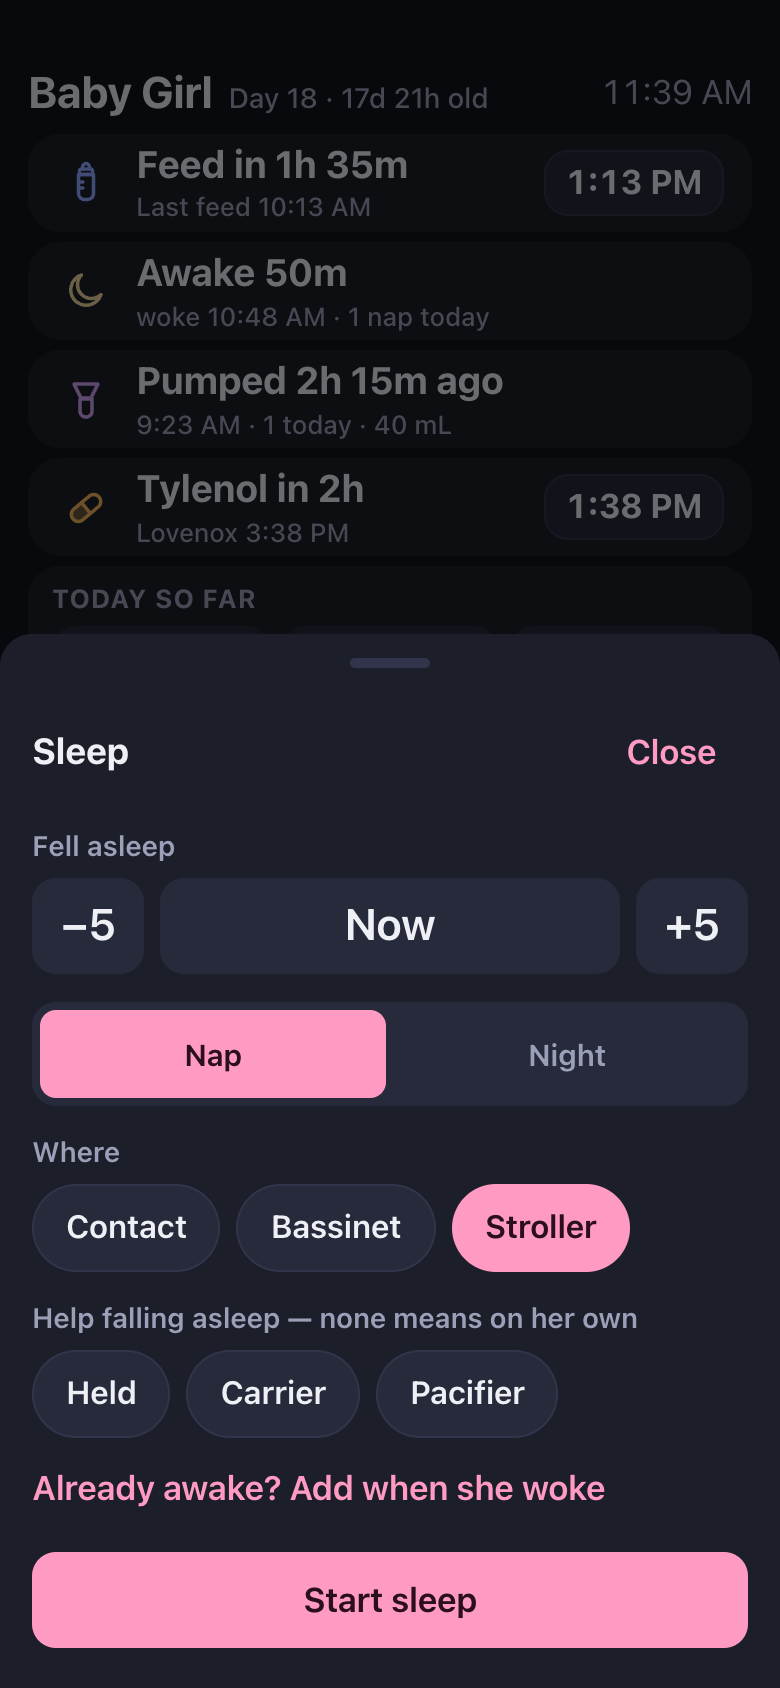
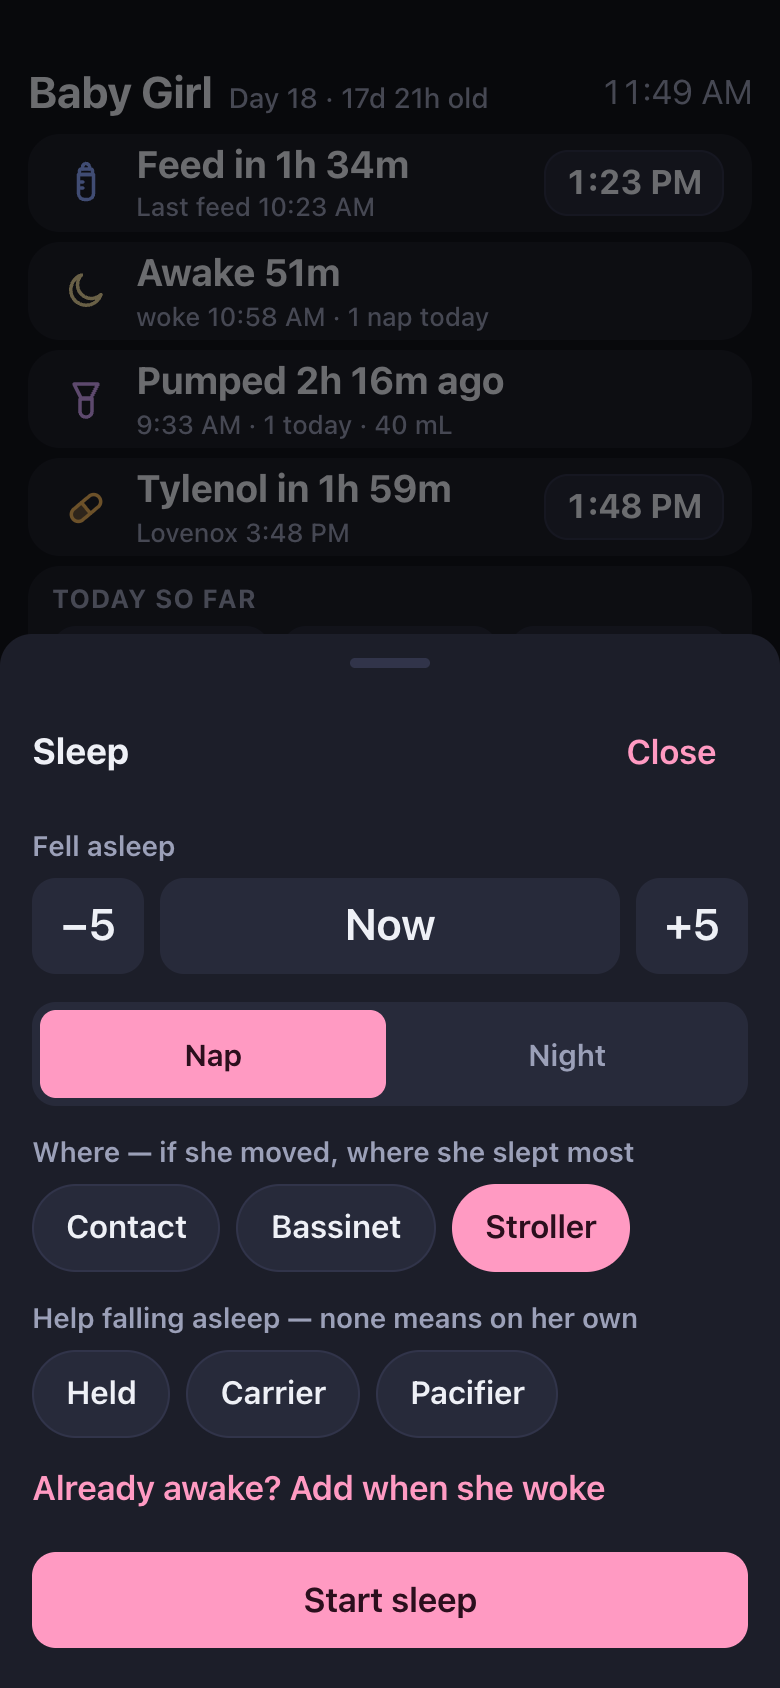
Sleep place is one choice (where she slept most); no transfer tracking; tapping the pre-picked place confirms it

diff --git a/src/components/editors.tsx b/src/components/editors.tsx
@@ -4,10 +4,9 @@ import { useUI, type EditorState } from '../ui';
 import {
   FEED_KINDS, STOOL_COLORS, STOOL_AMOUNTS, label,
   type Feed, type Diaper, type Pump, type MomMed, type Entry,
-  type FeedKind, type Side, type Latch, type StoolColor, type StoolAmount, type Med, type Sleep, type SleepHow, SLEEP_HOW, SLEEP_PLACES, type SleepPlace, type SleepStop,
+  type FeedKind, type Side, type Latch, type StoolColor, type StoolAmount, type Med, type Sleep, type SleepHow, SLEEP_HOW, SLEEP_PLACES, type SleepPlace,
 } from '../types';
 import { isNightSleepAt, DEFAULT_NIGHT_SLEEP, defaultPlace } from '../lib/sleep';
-import { fmtTime } from '../lib/time';
 import { announceAwake } from './MarkedAwake';
 import { fmtDur } from '../lib/time';
 import { Sheet, Chips, Seg, Field, NumberPick, TimeField, NotesField } from './common';
@@ -169,58 +168,31 @@ export function MedEditor({ entry, preset }: { entry?: MomMed; preset?: { med?: 
 
 export function SleepEditor({ entry }: { entry?: Sleep }) {
   const b = useEditorBase(entry);
-  const { settings, entries, update } = useStore();
-  const { closeEditor, toast } = useUI();
+  const { settings, entries } = useStore();
   const window = settings.night_sleep ?? DEFAULT_NIGHT_SLEEP;
   const [nightTouched, setNightTouched] = useState(!!entry);
   const [nightPick, setNight] = useState<boolean>(entry?.night ?? isNightSleepAt(b.at, window));
   const night = nightTouched ? nightPick : isNightSleepAt(b.at, window);
   const [how, setHow] = useState<SleepHow[]>(entry?.how ?? []);
   const [endAt, setEndAt] = useState<number | null>(entry?.end_at ?? null);
-  // Where she slept: a timeline. New sleeps start where the last nap (or night) started.
-  const [stops, setStops] = useState<SleepStop[]>(() => entry?.places ?? []);
+  // Where she slept: one place (where she slept most). New sleeps start where the last nap (or night) did.
+  const [placePick, setPlacePick] = useState<SleepPlace | null>(() => entry?.places?.length ? entry.places[entry.places.length - 1].place : null);
   const [placeTouched, setPlaceTouched] = useState(!!entry);
-  const suggested = placeTouched ? null : defaultPlace(entries, night);
-  const startPlace: SleepPlace | null = stops[0]?.place ?? suggested;
-  const pickStart = (p: SleepPlace) => { setPlaceTouched(true); setStops((cur) => (cur[0]?.place === p && !suggested ? cur.slice(1) : [{ at: b.at, place: p }, ...cur.slice(1)])); };
-  const placesOut = (): SleepStop[] | undefined => {
-    const list = startPlace ? [{ at: b.at, place: startPlace }, ...stops.slice(1)] : [];
-    return list.length ? list : undefined;
-  };
-  const asleepNow = !!entry && entry.end_at == null;
-  const moveTo = (p: SleepPlace) => {
-    const at = Date.now();
-    const base = entry!.places?.length ? entry!.places : startPlace ? [{ at: entry!.at, place: startPlace }] : [];
-    void update(entry!.id, { places: [...base, { at, place: p }] } as Partial<Sleep>);
-    closeEditor();
-    toast(`Moved to ${p} at ${fmtTime(at)}`);
-  };
+  const place: SleepPlace | null = placeTouched ? placePick : defaultPlace(entries, night);
+  // Tapping the pre-picked default confirms it; tapping a place you chose yourself again clears it.
+  const pickPlace = (p: SleepPlace) => { setPlacePick(placeTouched && place === p ? null : p); setPlaceTouched(true); };
   const toggleHow = (h: SleepHow) => setHow((cur) => (cur.includes(h) ? cur.filter((x) => x !== h) : [...cur.filter((x) => x !== 'own'), h]));
   const bad = endAt != null && endAt <= b.at;
-  const save = (end = endAt) => b.save({ type: 'sleep', night, how: how.length ? how : undefined, places: placesOut(), end_at: end });
+  const save = (end = endAt) => b.save({ type: 'sleep', night, how: how.length ? how : undefined, places: place ? [{ at: b.at, place }] : undefined, end_at: end });
   return (
     <Sheet title={b.editing ? (entry?.end_at == null ? 'Asleep' : 'Edit sleep') : 'Sleep'} onClose={b.close}>
       <TimeField value={b.at} onChange={b.setAt} label="Fell asleep" />
       <Seg options={[{ value: 'nap', label: 'Nap' }, { value: 'night', label: 'Night' }]} value={night ? 'night' : 'nap'} onChange={(v) => { setNightTouched(true); setNight(v === 'night'); }} />
-      <Field label={stops.length > 1 ? 'Where she fell asleep' : 'Where'}>
+      <Field label="Where — if she moved, where she slept most">
         <div className="chips">
-          {SLEEP_PLACES.map((o) => <button key={o.value} type="button" className={`chip${startPlace === o.value ? ' on' : ''}`} aria-pressed={startPlace === o.value} onClick={() => pickStart(o.value)}>{o.label}</button>)}
+          {SLEEP_PLACES.map((o) => <button key={o.value} type="button" className={`chip${place === o.value ? ' on' : ''}`} aria-pressed={place === o.value} onClick={() => pickPlace(o.value)}>{o.label}</button>)}
         </div>
       </Field>
-      {stops.length > 1 && (
-        <div className="moves">
-          {stops.slice(1).map((m, i) => (
-            <div key={m.at} className="move"><span>Moved to <b>{m.place}</b> at {fmtTime(m.at)}</span><button type="button" className="btn ghost" onClick={() => setStops((cur) => cur.filter((_, k) => k !== i + 1))} aria-label={`Remove the move to ${m.place}`}>Remove</button></div>
-          ))}
-        </div>
-      )}
-      {asleepNow && (
-        <Field label="Moved her?">
-          <div className="chips">
-            {SLEEP_PLACES.filter((o) => o.value !== (entry!.places?.length ? entry!.places[entry!.places.length - 1].place : startPlace)).map((o) => <button key={o.value} type="button" className="chip" onClick={() => moveTo(o.value)}>To {o.label.toLowerCase()} now</button>)}
-          </div>
-        </Field>
-      )}
       <Field label="Help falling asleep — none means on her own">
         <div className="chips">
           {SLEEP_HOW.map((o) => <button key={o.value} type="button" className={`chip${how.includes(o.value) ? ' on' : ''}`} aria-pressed={how.includes(o.value)} onClick={() => toggleHow(o.value)}>{o.label}</button>)}
@@ -232,7 +204,7 @@ export function SleepEditor({ entry }: { entry?: Sleep }) {
           {bad ? <div className="red small">Woke up has to be after she fell asleep.</div> : <div className="muted small">Slept {fmtDur(endAt - b.at)}</div>}
         </>
       ) : b.editing ? (
-        <button type="button" className="btn block" onClick={() => { const at = Date.now(); save(at); if (settings.marked_awake !== false && entry) announceAwake({ id: entry.id, at, sleptMs: at - entry.at, place: stops.length ? stops[stops.length - 1].place : startPlace }); }}>Woke up now</button>
+        <button type="button" className="btn block" onClick={() => { const at = Date.now(); save(at); if (settings.marked_awake !== false && entry) announceAwake({ id: entry.id, at, sleptMs: at - entry.at, place }); }}>Woke up now</button>
       ) : (
         <button type="button" className="btn ghost" style={{ alignSelf: 'flex-start', minHeight: 0, padding: 0 }} onClick={() => setEndAt(Date.now())}>Already awake? Add when she woke</button>
       )}

diff --git a/docs/release-notes/index.html b/docs/release-notes/index.html
@@ -482,7 +482,7 @@
       <div class="body">
         <h2>Marked Awake</h2>
         <ul class="notes">
-          <li><b>Where she slept.</b> Contact, Bassinet or Stroller on the sleep sheet, remembered from the last nap or night so it's usually already right. While she sleeps, open her sleep card and tap "To contact now" (or wherever) when she's moved; the card then reads "bassinet → contact".</li>
+          <li><b>Where she slept.</b> Contact, Bassinet or Stroller on the sleep sheet, remembered from the last nap or night so it's usually already right. Transfers aren't tracked: if she moved, pick where she slept most, or wake her and start a new sleep.</li>
           <li><b>The diary shows it.</b> Bassinet sleep is a solid bar, contact is striped, stroller is an outline, so a week of naps shows the mix at a glance.</li>
           <li><b>Help falling asleep, trimmed.</b> Held, Carrier and Pacifier. Rocked folds into held.</li>
           <li><b>She's Marked Awake.</b> Tap Woke up and a card in the style of the old safety check-in announces it: "Frankie is Marked Awake, and safe from Monty". The second line rotates through a few. It fades on its own, a tap closes it, Undo is inside, and at night it dims. A switch in Settings turns it off; new households start with it off.</li>

diff --git a/docs/guide/index.html b/docs/guide/index.html
@@ -111,7 +111,7 @@
       <div class="tip"><b>Wet is two taps.</b>Diaper, then Wet, saved. Dirty asks for a colour, and the colour tap saves.</div>
       <div class="tip"><b>Made a mistake?</b>Tap an entry to edit. Swipe left to delete. Undo sits at the bottom for ten seconds.</div>
       <div class="tip"><b>Mom's meds count down too.</b>Enter the hours between doses in Settings. The app never suggests an interval or a dose.</div>
-      <div class="tip"><b>Sleep is one button.</b>Tap Sleep when she drifts off: where (contact, bassinet, stroller) and any help (held, carrier, pacifier). Moved her? Tap her sleep card. While she sleeps the button reads Woke up; one tap ends it.</div>
+      <div class="tip"><b>Sleep is one button.</b>Tap Sleep when she drifts off: where (contact, bassinet, stroller) and any help (held, carrier, pacifier). While she sleeps the button reads Woke up; one tap ends it.</div>
       <div class="tip"><b>Longer stretches at night?</b>Settings → Feed timer → Different at night. A feed that starts after night begins counts down the night hours.</div>
       <div class="tip"><b>No signal, no problem.</b>Entries save on the phone and sync when you're back online.</div>
     </div>

diff --git a/src/data/demo.ts b/src/data/demo.ts
@@ -77,11 +77,11 @@ export function demoData(now = Date.now()): { settings: Settings; entries: Entry
   let lastEnd = 0;
   for (const [start, end, night, how] of sleeps.sort((a, b) => a[0] - b[0])) {
     if (end > now - 10 * M) continue;
-    // Nights in the bassinet, now and then moved to contact near the end; naps by time of day.
+    // Nights mostly in the bassinet, now and then contact; naps by time of day.
     const h = new Date(start).getHours();
     const places = night
-      ? (Math.round(start / 3_600_000) % 4 === 0 ? [{ at: start, place: 'bassinet' }, { at: end - 40 * M, place: 'contact' }] : [{ at: start, place: 'bassinet' }])
-      : h < 11 ? [{ at: start, place: 'contact' }] : h < 15 ? [{ at: start, place: 'bassinet' }, { at: start + 50 * M, place: 'contact' }] : [{ at: start, place: 'stroller' }];
+      ? [{ at: start, place: Math.round(start / 3_600_000) % 4 === 0 ? 'contact' : 'bassinet' }]
+      : [{ at: start, place: h < 11 ? 'contact' : h < 15 ? 'bassinet' : 'stroller' }];
     push({ type: 'sleep', end_at: end, night, places, ...(how ? { how } : {}) }, start, night ? 'mom' : 'dad');
     lastEnd = Math.max(lastEnd, end);
   }

diff --git a/src/styles.css b/src/styles.css
@@ -220,10 +220,6 @@ table.compare td { padding: 7px 0; border-top: 1px solid var(--border); text-ali
 table.compare td:first-child { text-align: left; color: var(--muted); }
 table.compare td:nth-child(2) { font-weight: 700; }
 
-.moves { display: flex; flex-direction: column; gap: 4px; margin-top: -4px; }
-.move { display: flex; align-items: center; justify-content: space-between; font-size: 15px; color: var(--muted); }
-.move b { color: var(--text); font-weight: 600; }
-.move .btn { min-height: 0; padding: 4px 0; font-size: 14px; }
 
 /* "Marked Awake": an homage to the old safety check-in card. Its own type and colours, on purpose. */
 .awake-scrim { position: fixed; inset: 0; z-index: 70; display: flex; align-items: center; justify-content: center; padding: 24px; background: rgba(6, 7, 12, .45); }

diff --git a/AGENTS.md b/AGENTS.md
@@ -14,7 +14,7 @@ No accounts. The household id in the URL path (`/h/<24+ char token>`, legacy `#h
 `/demo` is a made-up household held in memory only (`src/data/demo.ts`, dated relative to now in the device's time zone; `DemoStoreProvider` in `src/data/demoStore.tsx` implements the same `Store`). It never touches Firestore or this device's saved household; Settings shows a "Start your own household" card and hides sharing, switching and delete. `store.demo` is true there.
 
 ## Data
-- `households/{hid}/entries/{id}`: one collection, discriminated by `type` (`feed | diaper | pump | mom_med | sleep`). A sleep runs from `at` (fell asleep) to `end_at` (woke up; null while asleep), carries `night` (pre-picked from `settings.night_sleep`, default 19:00–07:00, flippable) and optional `how[]`: help falling asleep (held, `bjorn` = carrier, pacifier), offered on every sleep; none means on her own. Feeding and rocking aren't offered (she always goes down after a feed; rocked counts as held); legacy `feeding`/`own`/`rocking` values still display. Optional `places[]` is a timeline of {at, place} (contact, bassinet, stroller): the first stop is where she fell asleep, later stops are moves, logged from the open sleep's sheet ("Moved her?"). New sleeps default to where the last nap or night started (`defaultPlace`). Sleep math lives in `src/lib/sleep.ts`: daily totals split at midnight, a night is named by its evening (`nightKey`), bedtime/first stretch/longest stretch come from `nightStats`. Bilirubin tracking from the spec was dropped on 2026-09-12 at Eric's request; unknown `type` values are filtered out on read. Weight came back on 2026-09-14 as its own collection `households/{hid}/weights/{id}` (grams stored, shown as lb/oz first; first entry = birth weight). Appointments live in `households/{hid}/appointments/{id}`. Timestamps are epoch ms; `day` is the America/New_York calendar day computed at write time (`src/lib/time.ts`). Soft delete via `deleted_at`.
+- `households/{hid}/entries/{id}`: one collection, discriminated by `type` (`feed | diaper | pump | mom_med | sleep`). A sleep runs from `at` (fell asleep) to `end_at` (woke up; null while asleep), carries `night` (pre-picked from `settings.night_sleep`, default 19:00–07:00, flippable) and optional `how[]`: help falling asleep (held, `bjorn` = carrier, pacifier), offered on every sleep; none means on her own. Feeding and rocking aren't offered (she always goes down after a feed; rocked counts as held); legacy `feeding`/`own`/`rocking` values still display. Optional `places[]` holds one {at, place} (contact, bassinet, stroller): where she slept most. Transfers aren't tracked (Eric's call, 2026-10-31): if she wakes and moves, log a new sleep. The field is an array only because a few early sleeps carry a move; the trail still displays for those. New sleeps default to where the last nap or night started (`defaultPlace`). Sleep math lives in `src/lib/sleep.ts`: daily totals split at midnight, a night is named by its evening (`nightKey`), bedtime/first stretch/longest stretch come from `nightStats`. Bilirubin tracking from the spec was dropped on 2026-09-12 at Eric's request; unknown `type` values are filtered out on read. Weight came back on 2026-09-14 as its own collection `households/{hid}/weights/{id}` (grams stored, shown as lb/oz first; first entry = birth weight). Appointments live in `households/{hid}/appointments/{id}`. Timestamps are epoch ms; `day` is the America/New_York calendar day computed at write time (`src/lib/time.ts`). Soft delete via `deleted_at`.
 - `households/{hid}/settings/main`: singleton, written whole (no merge). Carries `tz` (IANA; missing = America/New_York for pre-existing households; new ones get the creating device's zone), `units` (volume ml|oz, weight lb|g; both always stored, display only), `custom_meds` (names; a custom med's key is its name), `users.other`.
 - The entries listener is scoped to the last 30 days (`where at >=`); older entries load on demand via `loadOlder()` (Summary button, exports). `day` is recomputed on read from `at` in the household tz.
 - Export (CSV/JSON) and delete-household live in Settings (`src/lib/export.ts`, `deleteHousehold` in the store). Feedback address in `src/config.ts`.

diff --git a/CLAUDE.md b/CLAUDE.md
@@ -14,7 +14,7 @@ No accounts. The household id in the URL path (`/h/<24+ char token>`, legacy `#h
 `/demo` is a made-up household held in memory only (`src/data/demo.ts`, dated relative to now in the device's time zone; `DemoStoreProvider` in `src/data/demoStore.tsx` implements the same `Store`). It never touches Firestore or this device's saved household; Settings shows a "Start your own household" card and hides sharing, switching and delete. `store.demo` is true there.
 
 ## Data
-- `households/{hid}/entries/{id}`: one collection, discriminated by `type` (`feed | diaper | pump | mom_med | sleep`). A sleep runs from `at` (fell asleep) to `end_at` (woke up; null while asleep), carries `night` (pre-picked from `settings.night_sleep`, default 19:00–07:00, flippable) and optional `how[]`: help falling asleep (held, `bjorn` = carrier, pacifier), offered on every sleep; none means on her own. Feeding and rocking aren't offered (she always goes down after a feed; rocked counts as held); legacy `feeding`/`own`/`rocking` values still display. Optional `places[]` is a timeline of {at, place} (contact, bassinet, stroller): the first stop is where she fell asleep, later stops are moves, logged from the open sleep's sheet ("Moved her?"). New sleeps default to where the last nap or night started (`defaultPlace`). Sleep math lives in `src/lib/sleep.ts`: daily totals split at midnight, a night is named by its evening (`nightKey`), bedtime/first stretch/longest stretch come from `nightStats`. Bilirubin tracking from the spec was dropped on 2026-09-12 at Eric's request; unknown `type` values are filtered out on read. Weight came back on 2026-09-14 as its own collection `households/{hid}/weights/{id}` (grams stored, shown as lb/oz first; first entry = birth weight). Appointments live in `households/{hid}/appointments/{id}`. Timestamps are epoch ms; `day` is the America/New_York calendar day computed at write time (`src/lib/time.ts`). Soft delete via `deleted_at`.
+- `households/{hid}/entries/{id}`: one collection, discriminated by `type` (`feed | diaper | pump | mom_med | sleep`). A sleep runs from `at` (fell asleep) to `end_at` (woke up; null while asleep), carries `night` (pre-picked from `settings.night_sleep`, default 19:00–07:00, flippable) and optional `how[]`: help falling asleep (held, `bjorn` = carrier, pacifier), offered on every sleep; none means on her own. Feeding and rocking aren't offered (she always goes down after a feed; rocked counts as held); legacy `feeding`/`own`/`rocking` values still display. Optional `places[]` holds one {at, place} (contact, bassinet, stroller): where she slept most. Transfers aren't tracked (Eric's call, 2026-10-31): if she wakes and moves, log a new sleep. The field is an array only because a few early sleeps carry a move; the trail still displays for those. New sleeps default to where the last nap or night started (`defaultPlace`). Sleep math lives in `src/lib/sleep.ts`: daily totals split at midnight, a night is named by its evening (`nightKey`), bedtime/first stretch/longest stretch come from `nightStats`. Bilirubin tracking from the spec was dropped on 2026-09-12 at Eric's request; unknown `type` values are filtered out on read. Weight came back on 2026-09-14 as its own collection `households/{hid}/weights/{id}` (grams stored, shown as lb/oz first; first entry = birth weight). Appointments live in `households/{hid}/appointments/{id}`. Timestamps are epoch ms; `day` is the America/New_York calendar day computed at write time (`src/lib/time.ts`). Soft delete via `deleted_at`.
 - `households/{hid}/settings/main`: singleton, written whole (no merge). Carries `tz` (IANA; missing = America/New_York for pre-existing households; new ones get the creating device's zone), `units` (volume ml|oz, weight lb|g; both always stored, display only), `custom_meds` (names; a custom med's key is its name), `users.other`.
 - The entries listener is scoped to the last 30 days (`where at >=`); older entries load on demand via `loadOlder()` (Summary button, exports). `day` is recomputed on read from `at` in the household tz.
 - Export (CSV/JSON) and delete-household live in Settings (`src/lib/export.ts`, `deleteHousehold` in the store). Feedback address in `src/config.ts`.
